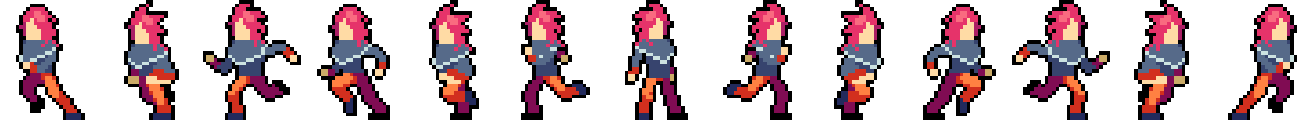
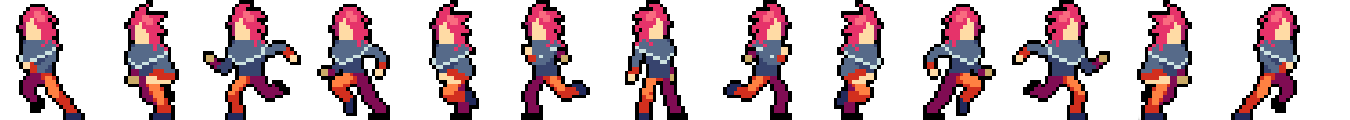
Perso 3 Texture Fix

diff --git a/src/Components/Game/GameScene.js b/src/Components/Game/GameScene.js
@@ -78,7 +78,7 @@ class GameScene extends Phaser.Scene {
       frameHeight: 129,
     });
     this.load.spritesheet("personnage3", dude3Asset, {
-      frameWidth: 100,
+      frameWidth: 101,
       frameHeight: 120,
     });
 
